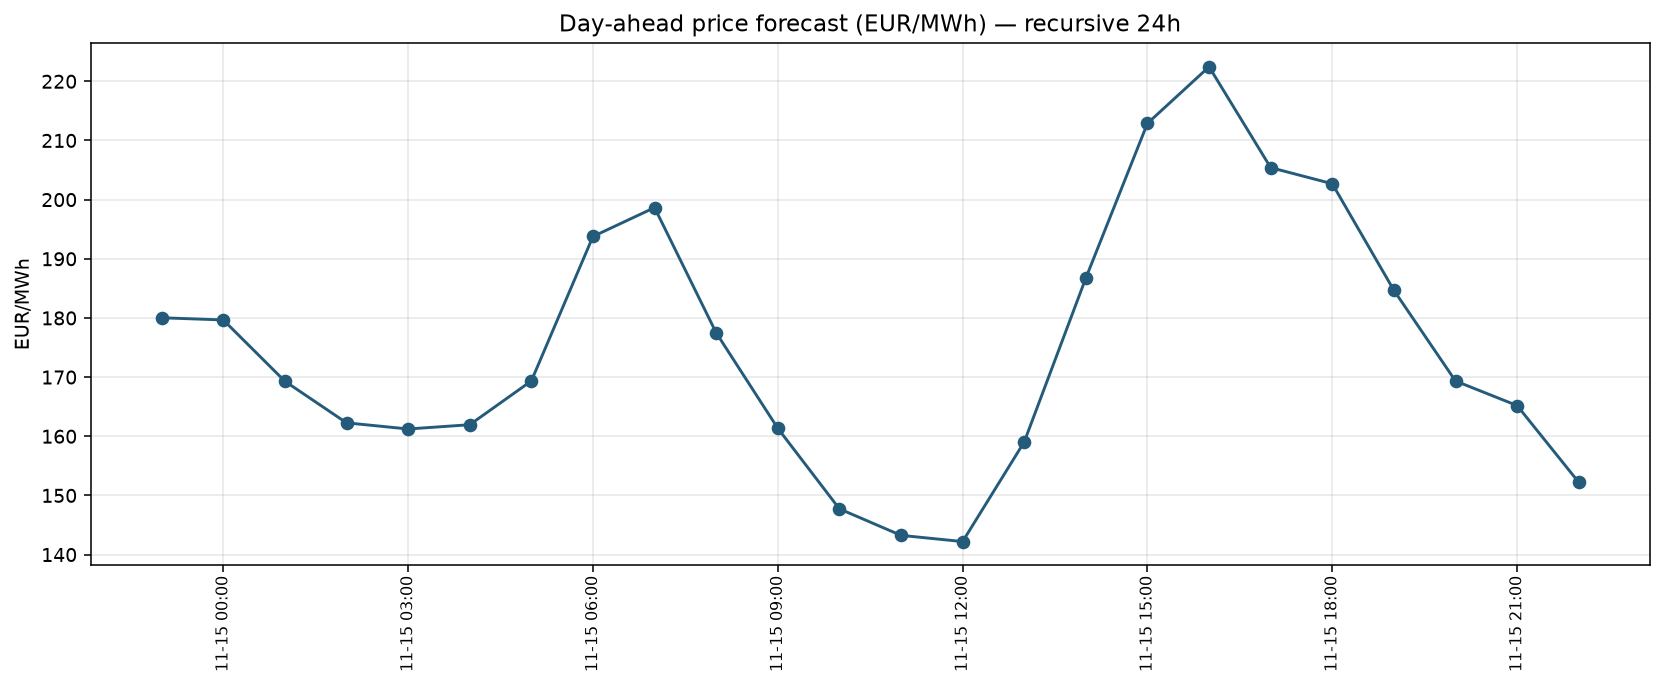
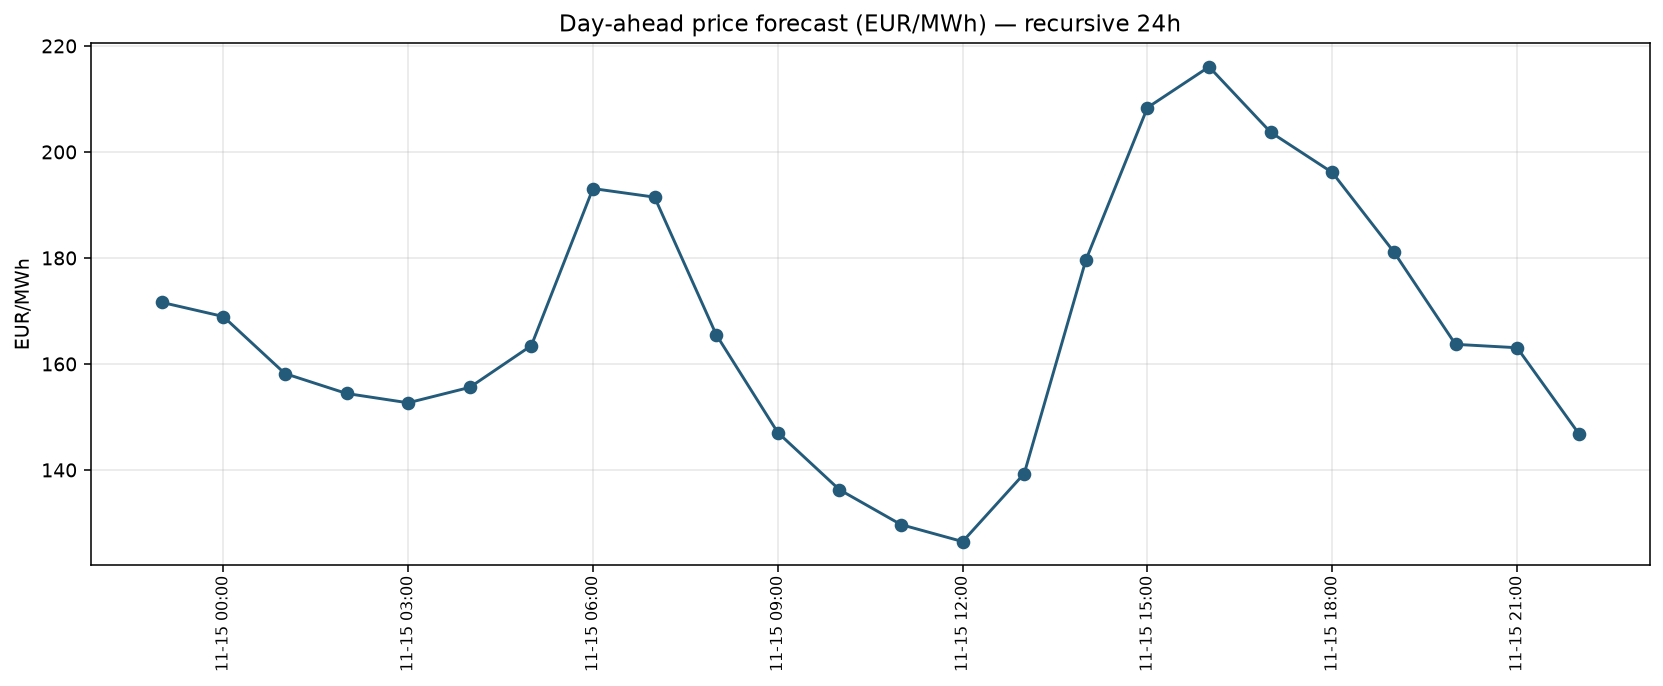
chore: daily forecast update

diff --git a/README.md b/README.md
@@ -195,7 +195,7 @@ Licence: MIT (code). Underlying market data remain subject to their original lic
 
 ## Live daily forecast
 
-**Generated (UTC):** 2026-11-14 01:32  
+**Generated (UTC):** 2026-11-14 10:59  
 **Based on data up to (UTC):** 2026-11-14 22:00  
 **Forecast horizon (UTC):** 2026-11-14 23:00 to 2026-11-15 22:00  
 **Protocol:** Conservative (external_shift = 24) + recursive 24h + hourly bias correction
@@ -208,30 +208,30 @@ Licence: MIT (code). Underlying market data remain subject to their original lic
 
 | Hour (UTC) | Forecast (EUR/MWh) | Bias |
 |------------|--------------------|------|
-| 2026-11-14 23:00 | 180.03 | -6.23 |
-| 2026-11-15 00:00 | 179.66 | -10.83 |
-| 2026-11-15 01:00 | 169.30 | -8.49 |
-| 2026-11-15 02:00 | 162.27 | -7.68 |
-| 2026-11-15 03:00 | 161.23 | -7.63 |
-| 2026-11-15 04:00 | 161.95 | -0.83 |
-| 2026-11-15 05:00 | 169.35 | -1.28 |
-| 2026-11-15 06:00 | 193.77 | -10.64 |
-| 2026-11-15 07:00 | 198.65 | -13.00 |
-| 2026-11-15 08:00 | 177.49 | -7.54 |
-| 2026-11-15 09:00 | 161.35 | -5.16 |
-| 2026-11-15 10:00 | 147.73 | -2.65 |
-| 2026-11-15 11:00 | 143.25 | -0.39 |
-| 2026-11-15 12:00 | 142.20 | -0.09 |
-| 2026-11-15 13:00 | 159.04 | -2.39 |
-| 2026-11-15 14:00 | 186.74 | -4.69 |
-| 2026-11-15 15:00 | 212.89 | -7.74 |
-| 2026-11-15 16:00 | 222.45 | -3.73 |
-| 2026-11-15 17:00 | 205.41 | 2.27 |
-| 2026-11-15 18:00 | 202.68 | 2.73 |
-| 2026-11-15 19:00 | 184.67 | 6.96 |
-| 2026-11-15 20:00 | 169.34 | 7.78 |
-| 2026-11-15 21:00 | 165.19 | 1.01 |
-| 2026-11-15 22:00 | 152.22 | 0.36 |
+| 2026-11-14 23:00 | 171.62 | -6.23 |
+| 2026-11-15 00:00 | 168.95 | -10.83 |
+| 2026-11-15 01:00 | 158.19 | -8.49 |
+| 2026-11-15 02:00 | 154.43 | -7.68 |
+| 2026-11-15 03:00 | 152.67 | -7.63 |
+| 2026-11-15 04:00 | 155.58 | -0.83 |
+| 2026-11-15 05:00 | 163.46 | -1.28 |
+| 2026-11-15 06:00 | 193.09 | -10.64 |
+| 2026-11-15 07:00 | 191.47 | -13.00 |
+| 2026-11-15 08:00 | 165.54 | -7.54 |
+| 2026-11-15 09:00 | 147.06 | -5.16 |
+| 2026-11-15 10:00 | 136.28 | -2.65 |
+| 2026-11-15 11:00 | 129.69 | -0.39 |
+| 2026-11-15 12:00 | 126.49 | -0.09 |
+| 2026-11-15 13:00 | 139.32 | -2.39 |
+| 2026-11-15 14:00 | 179.59 | -4.69 |
+| 2026-11-15 15:00 | 208.36 | -7.74 |
+| 2026-11-15 16:00 | 216.06 | -3.73 |
+| 2026-11-15 17:00 | 203.71 | 2.27 |
+| 2026-11-15 18:00 | 196.12 | 2.73 |
+| 2026-11-15 19:00 | 181.13 | 6.96 |
+| 2026-11-15 20:00 | 163.70 | 7.78 |
+| 2026-11-15 21:00 | 163.06 | 1.01 |
+| 2026-11-15 22:00 | 146.87 | 0.36 |
 
 ### Previous forecasts vs realized prices
 
